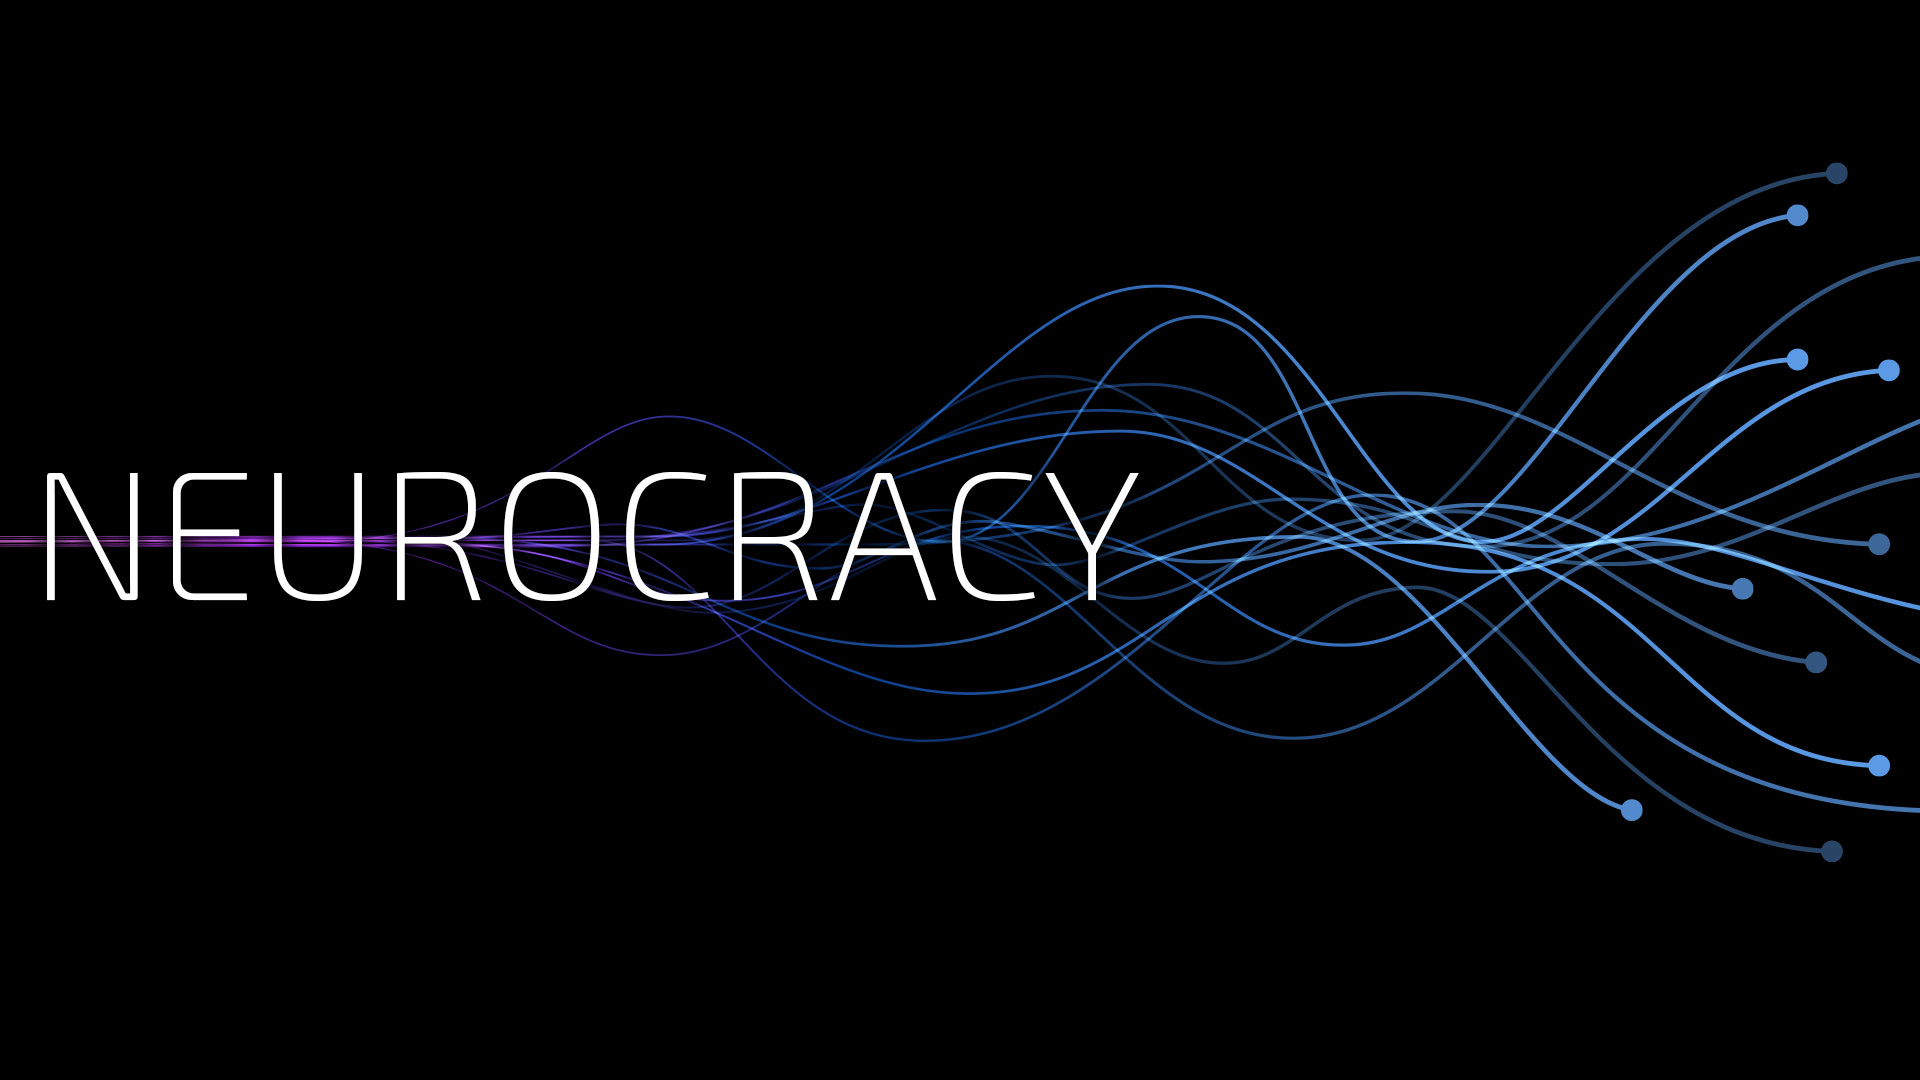
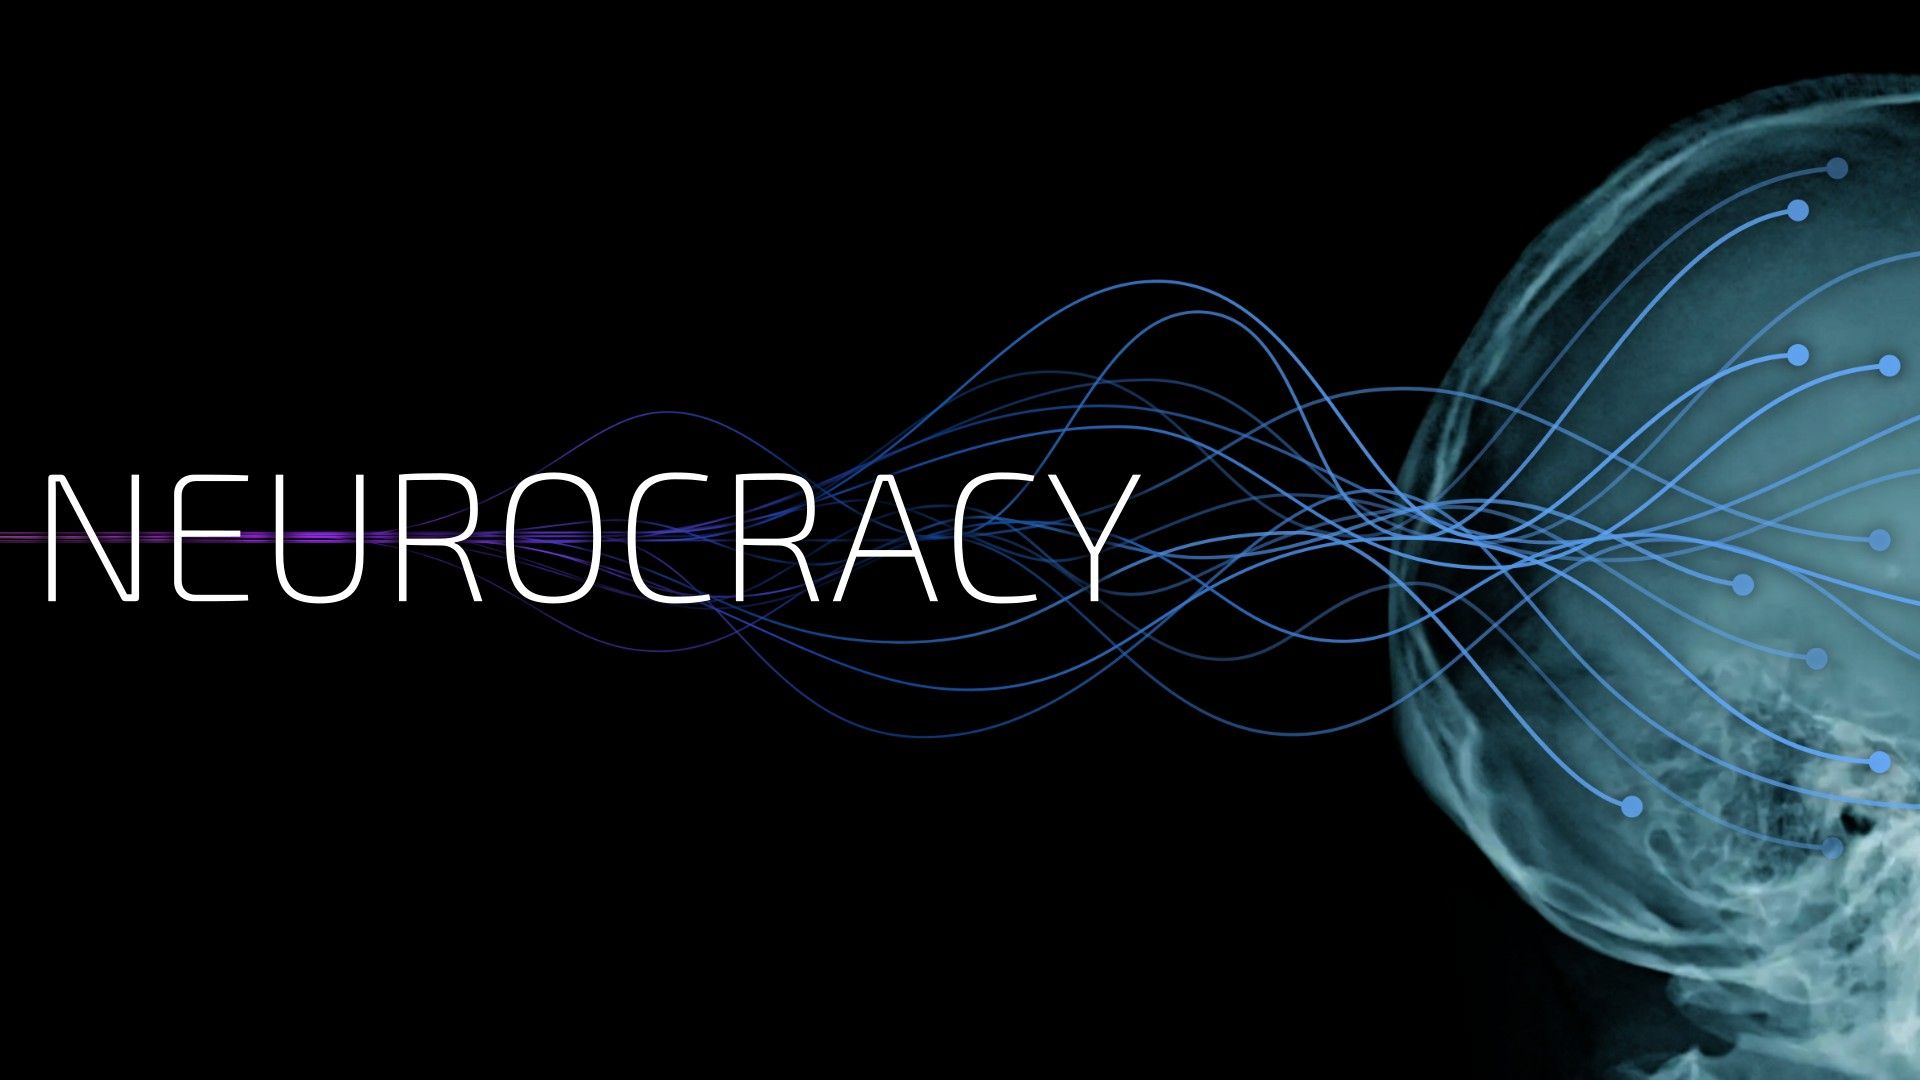
Updated share image to include skull.

diff --git a/web/index.htm b/web/index.htm
@@ -66,17 +66,17 @@
     <meta name="twitter:image:height" content="1080" />
     <!-- Note this must be a full URL containing a domain name, not just a
          path. -->
-    <meta name="twitter:image" content="https://neurocracy.site/images/share_dark.jpg?v=1" />
+    <meta name="twitter:image" content="https://neurocracy.site/images/share_dark.jpg?v=2" />
     <meta name="twitter:image:alt" content="&quot;Neurocracy&quot; overlaid on top of stylized branching wires." />
 
     <meta property="og:title" content="Neurocracy" />
     <meta property="og:description" content="Solve a murder in the future by diving into its Wikipedia" />
     <!-- Note this must be a full URL containing a domain name, not just a
          path. -->
-    <meta property="og:image" content="https://neurocracy.site/images/share_dark.jpg?v=1" />
+    <meta property="og:image" content="https://neurocracy.site/images/share_dark.jpg?v=2" />
     <!-- Note this must be a full URL containing a domain name, not just a
          path. -->
-    <meta property="og:image:secure_url" content="https://neurocracy.site/images/share_dark.jpg?v=1" />
+    <meta property="og:image:secure_url" content="https://neurocracy.site/images/share_dark.jpg?v=2" />
     <meta property="og:image:type" content="image/jpeg" />
     <meta property="og:image:width" content="1920" />
     <meta property="og:image:height" content="1080" />
